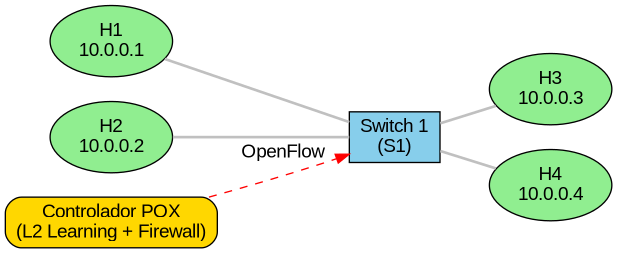
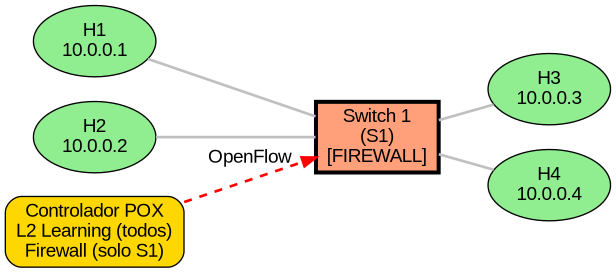
update documentacion (firewall en S1 & fix Python 3 de dns.py)

diff --git a/informe/implementacion.tex b/informe/implementacion.tex
@@ -107,6 +107,18 @@ Este mecanismo permite que los switches aprendan dinámicamente la topología si
 
 El firewall se implementó como un módulo POX custom en \texttt{controller/firewall.py}. Sus características principales son:
 
+\textbf{Ubicación del Firewall:}
+
+Las reglas del firewall se aplican \textbf{únicamente en el switch S1} (primer switch de la cadena). Esta decisión de diseño tiene las siguientes implicaciones:
+
+\begin{itemize}
+    \item \textbf{Ventaja}: Centraliza el control de seguridad en un único punto, simplificando la gestión y monitoreo.
+    \item \textbf{Limitación}: El tráfico que no pasa por S1 (ej: comunicación directa entre h3 y h4 en topologías N>1) no es filtrado por el firewall.
+    \item \textbf{Cobertura}: En la topología implementada (N=2), todo el tráfico inter-extremos (h1/h2 $\leftrightarrow$ h3/h4) pasa por S1, garantizando que las reglas críticas se apliquen correctamente.
+\end{itemize}
+
+La implementación define una lista \texttt{controlled\_switches = [1]} que especifica qué switches deben ejecutar el firewall. Al conectarse un switch, el controlador verifica su DPID y solo instala reglas si coincide con esta lista.
+
 \textbf{Instalación Proactiva de Reglas:}
 \begin{itemize}
     \item Las reglas se instalan al momento de la conexión del switch (evento \texttt{ConnectionUp}).
@@ -264,3 +276,17 @@ Se desarrollaron scripts bash para facilitar la ejecución:
 \end{itemize}
 
 Estos scripts incluyen validaciones y mensajes de error informativos.
+
+\subsection{Compatibilidad y Modificaciones Técnicas}
+
+\subsubsection{Fix de Compatibilidad Python 3}
+
+Durante la instalación de POX, se aplica un parche al archivo \texttt{pox/lib/packet/dns.py} para garantizar compatibilidad con Python 3.x. El archivo original de POX contiene código heredado de Python 2 que utiliza la función \texttt{ord()} innecesariamente al indexar bytes.
+
+\textbf{Modificaciones realizadas:}
+\begin{itemize}
+    \item Eliminación de llamadas \texttt{ord()} redundantes en el parsing de nombres DNS (líneas 378, 382)
+    \item Corrección del método \texttt{join()} para trabajar con bytes en lugar de strings (línea 399)
+\end{itemize}
+
+Este fix se aplica automáticamente en el script \texttt{install\_pox.sh}, copiando el archivo \texttt{dns.py} corregido al directorio correspondiente de POX después de su clonación desde GitHub.
